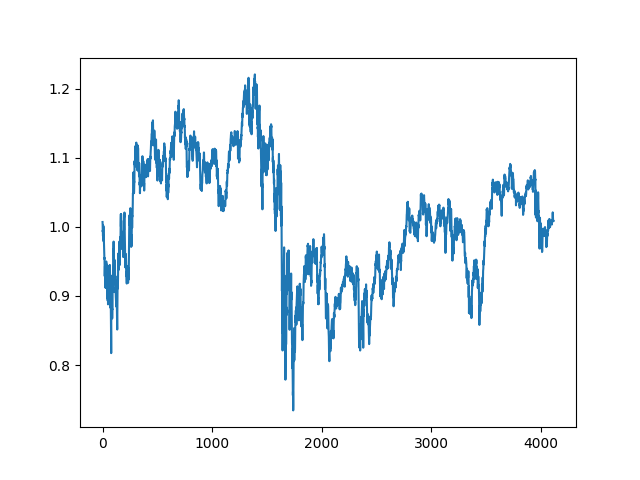
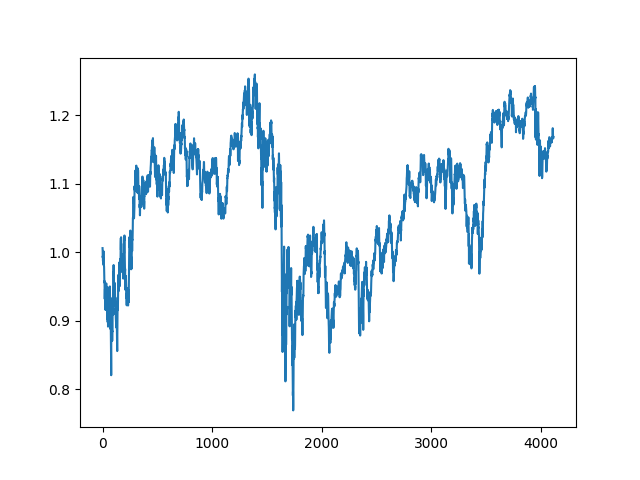
all

diff --git a/agent/agent.py b/agent/agent.py
@@ -2,8 +2,7 @@ from agent.actor import Actor
 from agent.critic import Critic
 import torch
 from agent.replay_memory import ReplayBuffer
-import numpy as np
-from torch.distributions import Normal
+
 
 class Agent():
 
@@ -15,54 +14,54 @@ class Agent():
         self.memory = ReplayBuffer(mem_size,trading_window_size, input_dims,assets_number,batch_size,sample_bias)
         self.nb = nb
 
-
     def get_action(self,obs,prev_weigths, learn = False):
+
         return self.actor(obs, prev_weigths,learn = learn)
     
     def store_transition(self, state, action, reward, state_):
         self.memory.store_transition(state, action, reward, state_)
 
     def sample_memory(self):
-        state, actions, reward, new_state = self.memory.sample_buffer()
-        states = torch.stack(state)
+        state, before_actions, reward, new_state = self.memory.sample_buffer()
+        states = torch.tensor(state)
         rewards = torch.tensor(reward)
-        states_ = torch.stack(new_state)
-        actions = torch.stack(actions)
+        states_ = torch.tensor(new_state)
+        before_actions = torch.tensor(before_actions)
 
-        return states, actions, rewards, states_
+        return states, before_actions, rewards, states_
     
     def learn(self):
-        if self.memory.mem_cntr%51 != 0 :
+        if self.memory.mem_cntr < self.batch_size:
             return
-
         
-        for _ in range(self.nb):
-            self.critic.optimizer.zero_grad()
-            self.actor.optimizer.zero_grad()
-            states, actions, rewards, states_, = self.sample_memory()
-            q_pred = self.critic(states)
-            q_next = self.critic(states_)
-            adv =  rewards + self.gamma* q_next.detach() - q_pred.detach()
+        
+        self.critic.optimizer.zero_grad()
+        self.actor.optimizer.zero_grad()
+        states, before_actions, rewards, states_, = self.sample_memory()
+        q_pred = self.critic(states)
+        q_next = self.critic(states_)
+        adv =  rewards + self.gamma* q_next.detach() - q_pred.detach()
 
-            critic_loss = torch.mean(torch.mul(adv,q_pred))
-            # x = actions.clone().detach()
+        critic_loss = torch.mean(torch.mul(adv,q_pred))
+        # x = actions.clone().detach()
 
-            # mean,std  = torch.mean(x, dim=0), torch.std(x, dim = 0)
+        # mean,std  = torch.mean(x, dim=0), torch.std(x, dim = 0)
 
-            # mean = torch.clip(mean, min = 1e-6, max = 60)
-            # std = torch.clip(std,min = 1e-6,max = 30)
-            # dist = Normal(mean,std)
-            
-            actions = self.get_action(states,actions,learn = True)
-            actor_loss = -1*torch.mean(torch.log(torch.mean(actions))*adv.detach())
-            #actor_loss = -1*torch.mean(torch.sum(dist.log_prob(actions)) * adv.clone().detach())
-            #actor_loss += (actions.log().mean()*adv.detach()).mean()
-            
-            actor_loss.backward()
-            critic_loss.backward()
-            self.critic.optimizer.step()
-            self.actor.optimizer.step()
-
+        # mean = torch.clip(mean, min = 1e-6, max = 60)
+        # std = torch.clip(std,min = 1e-6,max = 30)
+        # dist = Normal(mean,std)
+        
+        actions = self.get_action(states,before_actions,learn = True)
+        actor_loss = torch.mean(torch.log(torch.mean(actions))*adv.detach())
+        #actor_loss = -1*torch.mean(torch.sum(dist.log_prob(actions)) * adv.clone().detach())
+        #actor_loss += (actions.log().mean()*adv.detach()).mean()
+        
+        actor_loss.backward()
+        critic_loss.backward()
+        self.critic.optimizer.step()
+        self.actor.optimizer.step()
+        
+        
     
     def reset(self):
         self.memory.reset()

diff --git a/main.py b/main.py
@@ -18,19 +18,17 @@ def train(env,agent,num_episodes,args):
             done = False
             env.set_dates(args.train_start_date,args.train_end_date)
             obs, weights = env.reset()
-            agent.reset()
             while not done:
-                next_weights = agent.get_action(obs,weights)
-         
-                obs_, reward, done, _ = env.step(next_weights.detach().numpy())
+                next_weights = agent.get_action(obs,weights).detach()
+                obs_, reward, done, _ = env.step(next_weights.numpy())
                 # pv_vector = torch.sum(weights*torch.from_numpy(np.array(env.future_prices,dtype=np.float16)))
-                agent.store_transition(obs, weights.detach(), reward, obs_ )
+                agent.store_transition(obs, weights, reward, obs_ )
                 agent.learn()
                 obs = obs_
                 weights = next_weights
                 a.append(env.get_current_portfolio_value())
             print(min(a),a[-1],max(a))
-            if i % 50 == 0:
+            if i % 100 == 0:
                 ax.plot(range(len(a)),a)
                 ax.figure.savefig('./plots/train_'+str(i))
                 test(env,agent,args.test_start_date,args.test_end_date,i)
@@ -62,15 +60,15 @@ def get_args():
     parser = argparse.ArgumentParser()
 
     parser.add_argument('--assets_number', type = int, default = 28, help='number of assets')
-    parser.add_argument('--trading_window_size',type = int, default = 31, help= 'number of last n trades taking in consideration')
-    parser.add_argument('--gamma', type = float, default = 0.98, help='discount factor')
+    parser.add_argument('--trading_window_size',type = int, default = 30, help= 'number of last n trades taking in consideration')
+    parser.add_argument('--gamma', type = float, default = 0.99, help='discount factor')
     parser.add_argument('--device', type=str, default='cpu', help='gpu/cpu')
     parser.add_argument('--num_episodes', type=int, default=1000, help='number of training episodes')    
-    parser.add_argument('--batch_size', type=int, default=32, help='batch size') 
-    parser.add_argument('--actor_lr', type=float, default=1e-4, help='actor learning rate')
-    parser.add_argument('--critic_lr', type=float, default=1e-3, help='critic learning rate')
-    parser.add_argument('--actor_weight_decay', type=float, default=0, help='L2 regularization on actor model weights')
-    parser.add_argument('--critic_weight_decay', type=float, default=0, help='L2 regularization on critic model weights')
+    parser.add_argument('--batch_size', type=int, default=109, help='batch size') 
+    parser.add_argument('--actor_lr', type=float, default=1e-5, help='actor learning rate')
+    parser.add_argument('--critic_lr', type=float, default=2e-3, help='critic learning rate')
+    parser.add_argument('--actor_weight_decay', type=float, default=1e-8, help='L2 regularization on actor model weights')
+    parser.add_argument('--critic_weight_decay', type=float, default=1e-8, help='L2 regularization on critic model weights')
     parser.add_argument('--train_start_date', type=str,default = '2002-04-01', help='training start date (format: %YYYY-mm-dd)')
     parser.add_argument('--train_end_date', type=str,default = '2018-10-19', help='training end date (format: %YYYY-mm-dd)')
     parser.add_argument('--test_start_date', type=str,default = '2019-06-09', help='testing start date (format: %YYYY-mm-dd)')

diff --git a/agent/replay_memory.py b/agent/replay_memory.py
@@ -8,34 +8,35 @@ class ReplayBuffer():
         self.mem_size = max_size
         self.mem_cntr = 0
         self.batch_size = batch_size
-        self.state_memory = [None]*self.mem_size
-        self.new_state_memory = [None]*self.mem_size
-        self.action_memory = [None]*self.mem_size
+        self.state_memory =  np.zeros((self.mem_size,input_dims[0],number_of_assets,trading_window_size), dtype=np.float32)
+        self.action_memory = np.zeros((self.mem_size,number_of_assets+1), dtype=np.float32)
+        self.new_state_memory =  np.zeros((self.mem_size,input_dims[0],number_of_assets,trading_window_size), dtype=np.float32)
         self.reward_memory = np.zeros(self.mem_size, dtype=np.float32)
         self.sample_bias = sample_bias
         #probabilities = [sample_bias*pow((1-sample_bias),self.mem_size - t - self.batch_size) for t in range(self.mem_size - self.batch_size)]
         #self.distribution = Geometric(torch.tensor(probabilities))
 
     def store_transition(self, state, action, reward, state_):
-        # index = self.mem_cntr % self.mem_size
-        self.state_memory[self.mem_cntr] = state
-        self.action_memory[self.mem_cntr] = action
-        self.reward_memory[self.mem_cntr] = reward
-        self.new_state_memory[self.mem_cntr] = state_
+        index = self.mem_cntr % self.mem_size
+        self.state_memory[index] = state
+        self.action_memory[index] = action
+        self.reward_memory[index] = reward
+        self.new_state_memory[index] = state_
         self.mem_cntr += 1
 
     def sample_buffer(self):
-        end = self.mem_cntr - self.batch_size
-        index = np.random.geometric(self.sample_bias)
-        while index > end:
-            index = np.random.geometric(self.sample_bias)
+        # end = min(self.mem_cntr - self.batch_size, self.mem_size-self.batch_size)
+        # index = np.random.geometric(self.sample_bias)
+        # while index > end:
+        #     index = np.random.geometric(self.sample_bias)
 
-        # index = np.random.randint(0,end)
-        return self.state_memory[index:index+self.batch_size], self.action_memory[index:index+self.batch_size],  self.reward_memory[index:index+self.batch_size], self.new_state_memory[index:index+self.batch_size]
-    
-    def reset(self):
-        self.mem_cntr = 0
-        self.state_memory = [None]*self.mem_size
-        self.new_state_memory = [None]*self.mem_size
-        self.action_memory = [None]*self.mem_size
-        self.reward_memory = np.zeros(self.mem_size, dtype=np.float32)
+        # return self.state_memory[index:index+self.batch_size], self.action_memory[index:index+self.batch_size],  self.reward_memory[index:index+self.batch_size], self.new_state_memory[index:index+self.batch_size]
+        max_mem = min(self.mem_cntr, self.mem_size)
+        batch = np.random.choice(max_mem, self.batch_size, replace=False)
+
+        states = self.state_memory[batch]
+        actions = self.action_memory[batch]
+        rewards = self.reward_memory[batch]
+        states_ = self.new_state_memory[batch]
+
+        return states, actions, rewards, states_

diff --git a/environment/aec_wrapper/autoencoder_wrapper.py b/environment/aec_wrapper/autoencoder_wrapper.py
@@ -23,15 +23,15 @@ class AecObservationWrapper(gym.ObservationWrapper):
         self.obs_data_deque = deque(maxlen=self.trading_window_size)
         self.obs_data_deque.extend(filtered_obs)
         with torch.no_grad():
-            x = self.autoencoder.encode(torch.tensor(self.obs_data_deque,dtype=torch.float32))
+            x = self.autoencoder.encode(torch.tensor(np.array(self.obs_data_deque),dtype=torch.float32))
 
-        return x.reshape(3,self.number_of_assets,self.trading_window_size), torch.tensor(weights, dtype = torch.float32)
+        return x.reshape(3,self.number_of_assets,self.trading_window_size), torch.from_numpy(weights)
     
     def observation(self, observation):
         filtered_obs = observation[:,self.filter_indices].astype(np.float32)
         self.obs_data_deque.append(filtered_obs)
 
         with torch.no_grad():
-            x = self.autoencoder.encode(torch.tensor(self.obs_data_deque,dtype=torch.float32))
+            x = self.autoencoder.encode(torch.tensor(np.array(self.obs_data_deque),dtype=torch.float32))
 
         return x.reshape(3,self.number_of_assets,self.trading_window_size)

diff --git a/agent/actor.py b/agent/actor.py
@@ -18,7 +18,7 @@ class Actor(nn.Module):
         self.optimizer = optim.Adam(self.parameters(),lr = actor_lr,weight_decay = actor_weight_decay)
 
     def forward(self, x, prev_weigths, learn = False):
-        prev_weigths = prev_weigths.clone().detach()
+        prev_weigths = prev_weigths.clone().detach().to(torch.float32)
         if learn == False:
             x = x.unsqueeze(0)
         x = torch.tanh(self.conv1(x))
@@ -30,11 +30,12 @@ class Actor(nn.Module):
             c = prev_weigths[:,1:].unsqueeze(-1).unsqueeze(0).permute(1,0,2,3)
             x = torch.cat([c,x],dim = 1)
         else:
+            c = prev_weigths[1:].unsqueeze(-1).unsqueeze(0)
             x = torch.cat((prev_weigths[1:].unsqueeze(-1).unsqueeze(0),x.squeeze(0)),0).unsqueeze(0)
-        
+
         x = torch.tanh(self.conv3(x))
         if learn:
-            cash = torch.ones((32,1,1,1)) * self.alpha
+            cash = torch.ones((x.shape[0],1,1,1)) * self.alpha
             x = torch.cat([cash, x], -2)
             
         else:

diff --git a/environment/stock_trading_env.py b/environment/stock_trading_env.py
@@ -121,8 +121,10 @@ class StockTradingEnv(Env):
         self.before = self.current_portfolio_value
         self.x =  self.x * mi* np.dot(y_t,stock_weights)
         self.current_portfolio_value = self.starting_portfolio_value * self.x
-
-        return log(self.current_portfolio_value/self.before) 
+        reward = log(self.current_portfolio_value/self.before) 
+        if reward < 0:
+            return reward*1e5
+        return reward*1e3
 
     
     def get_current_portfolio_value(self):
